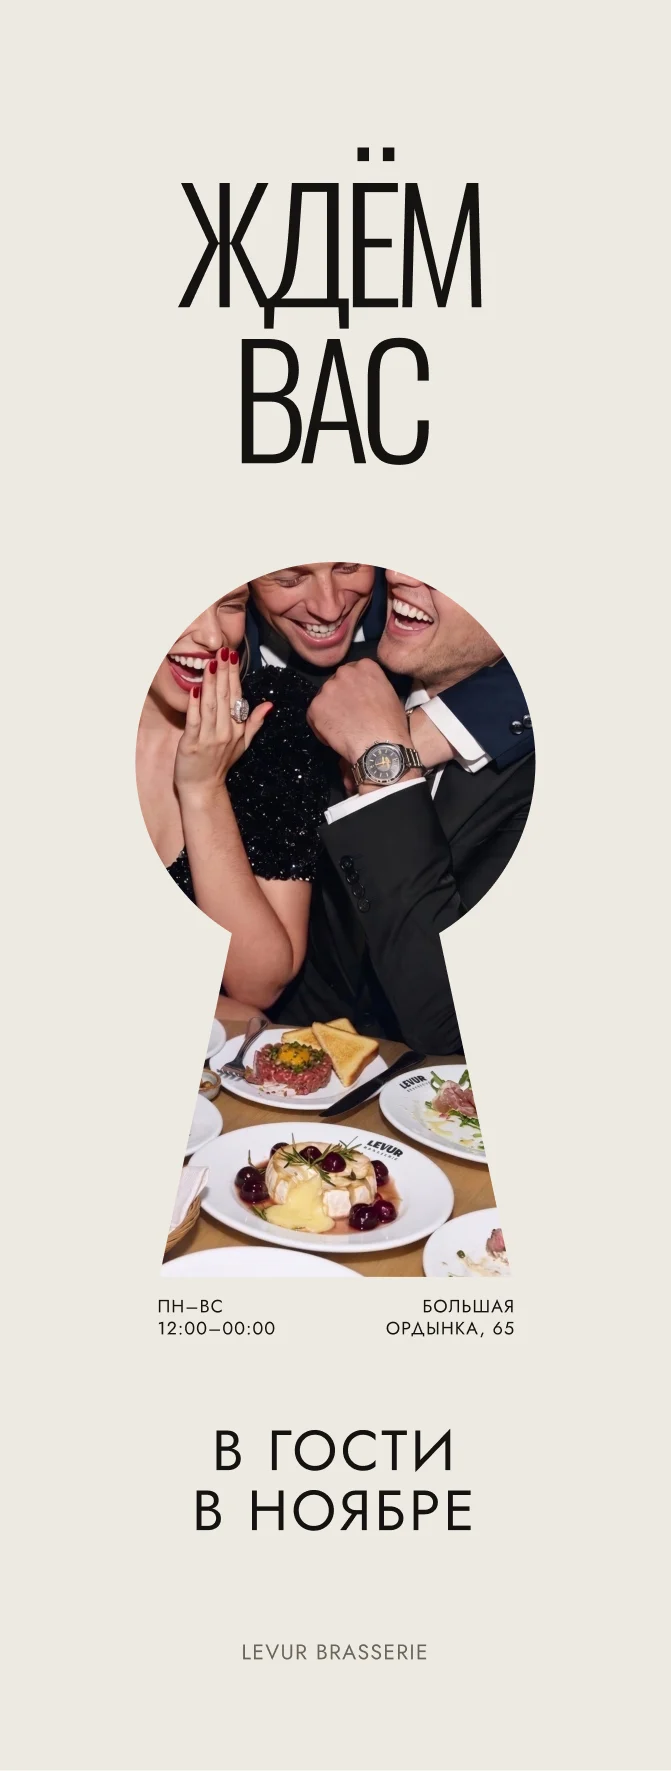
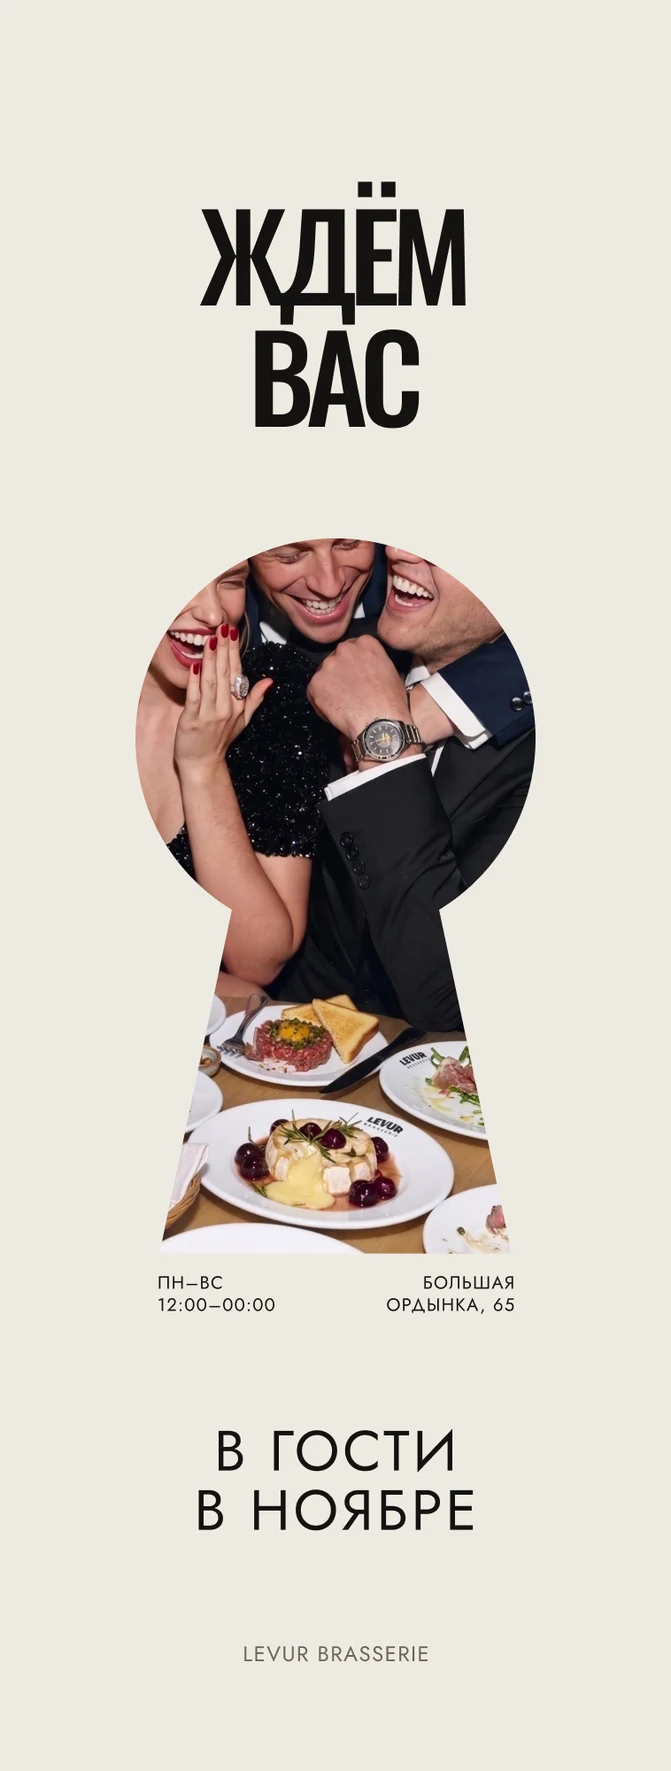
Концепция 2, вариант 2: новый гротеск на светлом

diff --git a/index.html b/index.html
@@ -189,7 +189,7 @@
           </div>
           <div class="shade"></div>
         </div></div>
-        <figcaption>Вариант 2<span class="opts" role="group" aria-label="Вариант постера"><button type="button" data-img="k2" data-src="door-3d/sticker-poster-serif-dark.webp?v=20261028e" aria-pressed="true">Антиква, чёрный</button><button type="button" data-img="k2" data-src="door-3d/sticker-poster-grotesk.webp?v=20261028e" aria-pressed="false">Гротеск</button><button type="button" data-img="k2" data-src="door-3d/sticker-poster-serif.webp?v=20261028e" aria-pressed="false">Антиква</button></span></figcaption>
+        <figcaption>Вариант 2<span class="opts" role="group" aria-label="Вариант постера"><button type="button" data-img="k2" data-src="door-3d/sticker-poster-serif-dark.webp?v=20261028e" aria-pressed="true">Антиква, чёрный</button><button type="button" data-img="k2" data-src="door-3d/sticker-poster-grotesk.webp?v=20261028g" aria-pressed="false">Гротеск</button><button type="button" data-img="k2" data-src="door-3d/sticker-poster-serif.webp?v=20261028e" aria-pressed="false">Антиква</button></span></figcaption>
       </figure>
     </div>
   </section>
